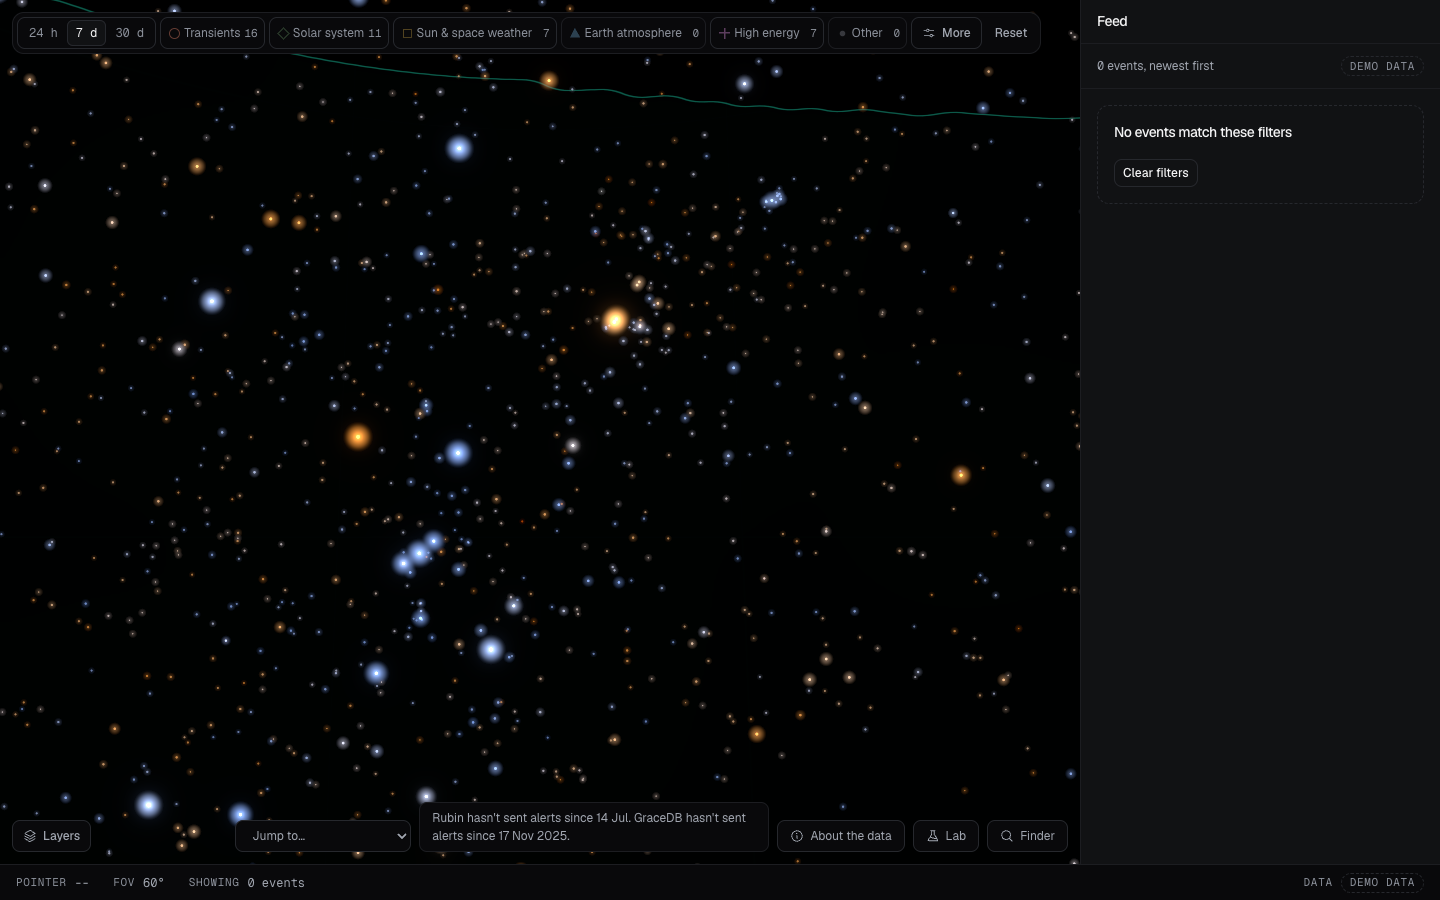
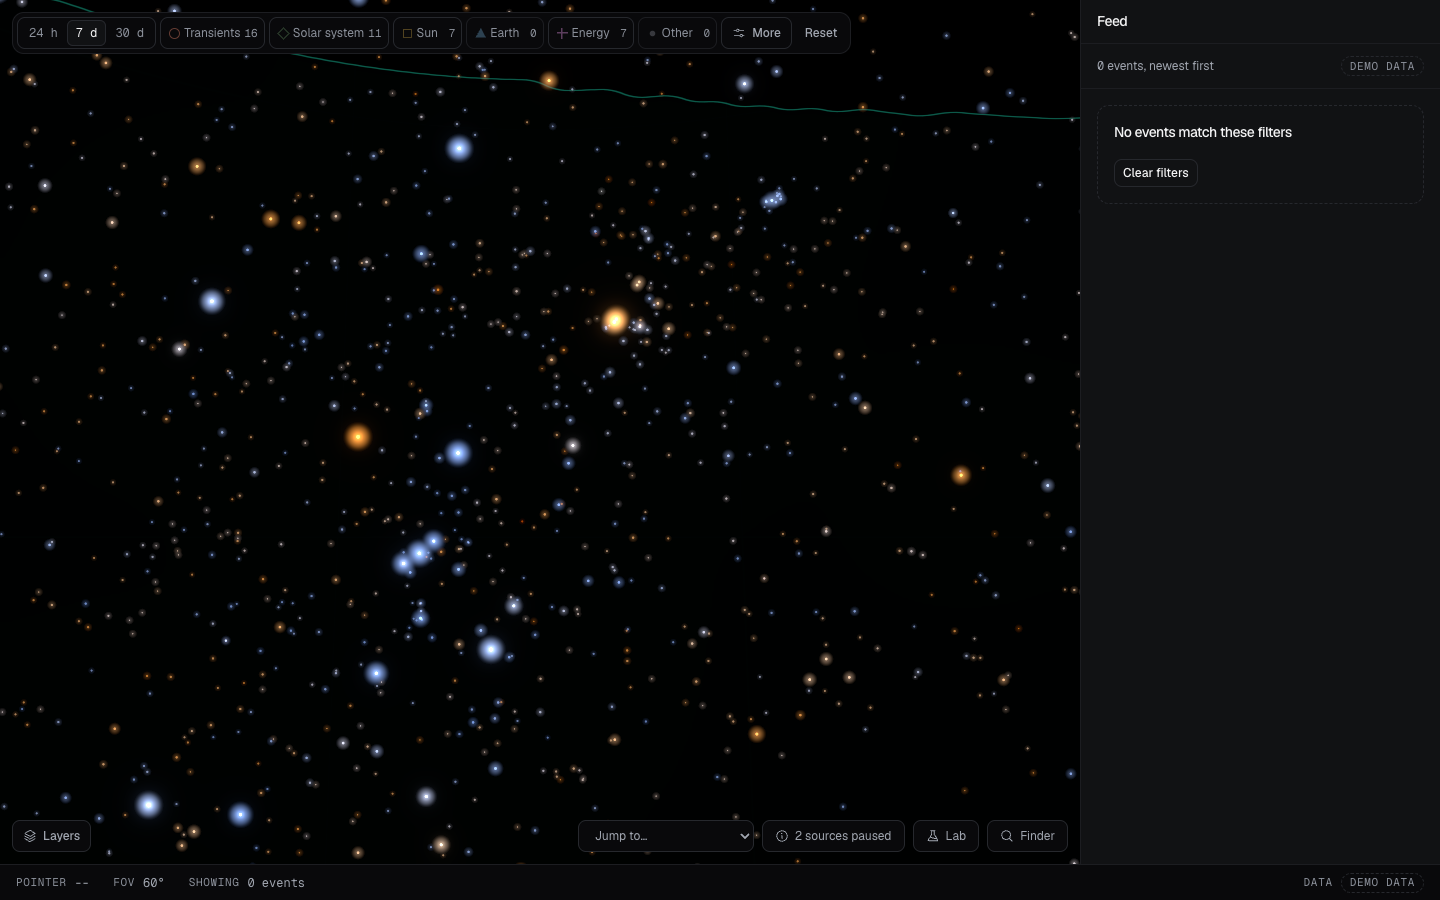
[MAPUI] less text: short chip labels, paused-sources pill on desktop
- Chips say Transients, Solar system, Sun, Earth, Energy, Other; the full
  category name stays in the tooltip and the accessible name.
- Desktop drops the long paused-sources sentence for the same
  "2 sources paused" button the phone uses; the lines stay in its popover.
- Lab and Finder unchanged. Screenshots, GIF and notes updated.

Changed region(s): [[0.3125, 0.0311, 0.7188, 0.0622], [0.2812, 0.9022, 0.625, 0.9644], [0.1562, 0.9022, 0.2188, 0.9333]]

diff --git a/web/components/map/StatusBanner.tsx b/web/components/map/StatusBanner.tsx
@@ -18,22 +18,15 @@ export function statusLines(status: Status, now: number): string[] {
     });
 }
 
-/** A quiet banner over the sky when a source is paused, plus per-source freshness in a popover. */
+/** One small button over the sky: "2 sources paused" (or "About the data"); the lines and per-source freshness are in its popover. */
 export function StatusBanner({ status, now, demo, footprintUrl }: { status: Status | null; now: number; demo: boolean; footprintUrl: string }) {
   if (!status) return null;
   const lines = statusLines(status, now);
   return (
     <div className={s.status}>
-      {lines.length > 0 && (
-        <p className={s.statusText} role="status">
-          {lines.join(" ")}
-        </p>
-      )}
       <button className={s.statusButton} popoverTarget="about-data" type="button">
         <Info size={14} aria-hidden />
-        <span className={s.statusLong}>About the data</span>
-        {/* On a phone the banner collapses into the button; the popover has the full lines. */}
-        <span className={s.statusShort}>{lines.length ? `${lines.length} ${lines.length === 1 ? "source" : "sources"} paused` : "About the data"}</span>
+        {lines.length ? `${lines.length} ${lines.length === 1 ? "source" : "sources"} paused` : "About the data"}
       </button>
       <div id="about-data" popover="auto" className={s.popover} role="dialog" aria-label="About the data">
         <div className={s.rowBetween}>

diff --git a/web/components/map/FilterBar.tsx b/web/components/map/FilterBar.tsx
@@ -20,6 +20,16 @@ const PRESETS: { value: Preset; label: string }[] = [
   { value: "30d", label: "30 d" },
 ];
 
+/** One short word per chip, next to the marker glyph; the full name is the tooltip and the accessible name. */
+const CHIP_LABEL: Record<Category, string> = {
+  transients: "Transients",
+  solar_system: "Solar system",
+  sun_space_weather: "Sun",
+  earth_atmosphere: "Earth",
+  high_energy: "Energy",
+  other: "Other",
+};
+
 const MONTHS = ["January", "February", "March", "April", "May", "June", "July", "August", "September", "October", "November", "December"];
 const isoDay = (ms: number) => new Date(ms).toISOString().slice(0, 10);
 
@@ -64,11 +74,12 @@ function Chip({ category, state, count, onToggle }: { category: Category; state:
       className={s.chip}
       aria-pressed={state === "on" ? true : state === "mixed" ? "mixed" : false}
       data-empty={count === 0 || undefined}
+      title={CATEGORY_LABEL[category]}
       aria-label={`${CATEGORY_LABEL[category]}, ${count} ${count === 1 ? "event" : "events"}${state === "mixed" ? ", some types" : ""}`}
       onClick={onToggle}
     >
       <CategoryGlyph category={category} size={11} />
-      <span>{CATEGORY_LABEL[category]}</span>
+      <span>{CHIP_LABEL[category]}</span>
       <RollingCount value={count} className={`mono ${s.chipCount}`} />
     </button>
   );

diff --git a/web/components/map/map.module.css b/web/components/map/map.module.css
@@ -156,16 +156,10 @@
   flex: none;
 }
 
-/* On desktop the paused-source line wraps inside its own box rather than pushing the row apart. */
 .utilities .status {
   flex: 0 1 auto;
   flex-wrap: nowrap;
   align-items: flex-end;
-}
-
-.utilities .statusText {
-  min-width: 0;
-  max-width: 44ch;
 }
 
 .utilities .statusButton {
@@ -201,15 +195,6 @@
   pointer-events: auto;
 }
 
-.statusText {
-  padding: 6px var(--s-3);
-  border: 1px solid var(--hairline);
-  border-radius: var(--radius-control);
-  background: var(--bg);
-  color: var(--ink-secondary);
-  font-size: var(--text-12);
-}
-
 .statusButton {
   display: inline-flex;
   align-items: center;
@@ -231,9 +216,9 @@
   }
 }
 
-.statusShort,
 .statusPopLines {
-  display: none;
+  font-size: var(--text-13);
+  color: var(--ink-secondary);
 }
 
 .popover {
@@ -1116,21 +1101,6 @@
   .status {
     flex: 0 1 auto;
     justify-content: flex-start;
-  }
-
-  .statusText,
-  .statusLong {
-    display: none;
-  }
-
-  .statusShort {
-    display: inline;
-  }
-
-  .statusPopLines {
-    display: block;
-    font-size: var(--text-13);
-    color: var(--ink-secondary);
   }
 
   .popover {

diff --git a/web/docs/mapui/README.md b/web/docs/mapui/README.md
@@ -7,7 +7,11 @@ button (bottom left), and filter changes move instead of popping.
 
 - **Filter bar:** `24 h | 7 d | 30 d`, six category chips (marker glyph, count for the current range,
   `aria-pressed` on / off / mixed, dimmed at zero but still clickable), **More** with a badge for
-  non-default settings inside it, and **Reset** when anything differs from the defaults.
+  non-default settings inside it, and **Reset** when anything differs from the defaults. Chips say one
+  short word (Transients, Solar system, Sun, Earth, Energy, Other). The full category name is the
+  tooltip and the accessible name.
+- **Paused sources:** one "2 sources paused" button on desktop and phone. The sentences and per-source
+  freshness are in its popover.
 - **More:** event sub-types, sources, minimum confidence, only with pictures, custom date range, and
   Rubin's latest nights. It is a popover on desktop and a bottom sheet on phones.
 - **Layers:** Stars (bright, dim, planet hosts), Overlays (Rubin coverage, Rubin heatmap, Milky Way
@@ -17,7 +21,7 @@ button (bottom left), and filter changes move instead of popping.
   sheets. Nothing covers the sky until you open something.
 - **Keyboard:** every control is reachable with Tab. Esc closes a popover or sheet and returns focus
   to its button, and Tab-ing out of one closes it. The focus ring is the 2px accent.
-- "About this map" (star colours, Rubin footprint source) moved into the **About the data** popover.
+- "About this map" (star colours, Rubin footprint source) moved into the About the data popover, behind the paused-sources button.
 
 ### Filters in the URL
 
